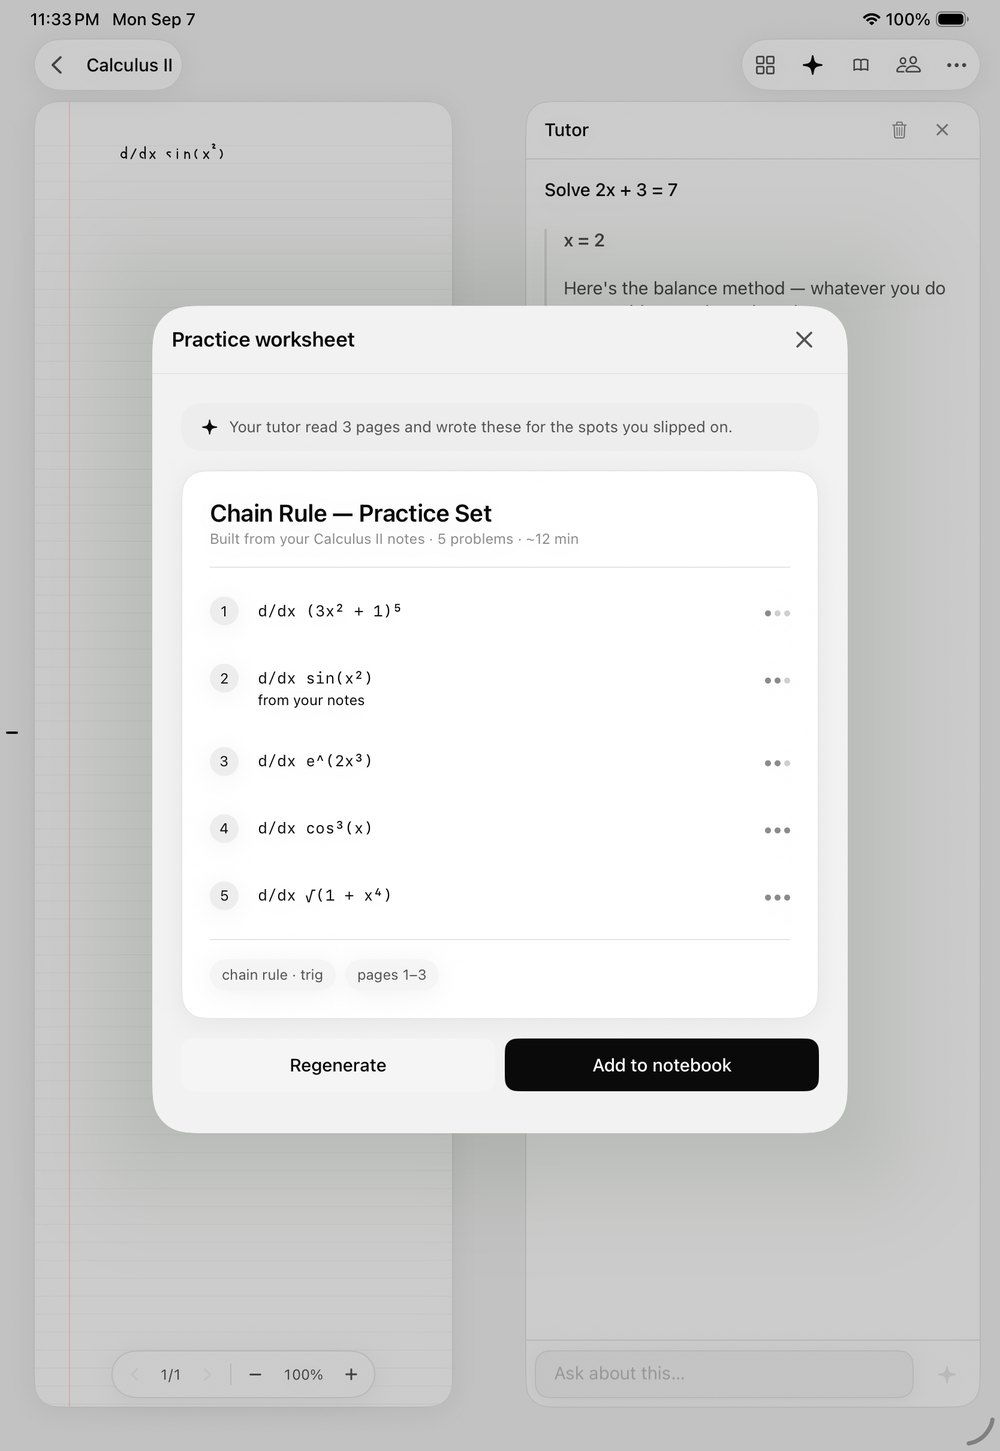
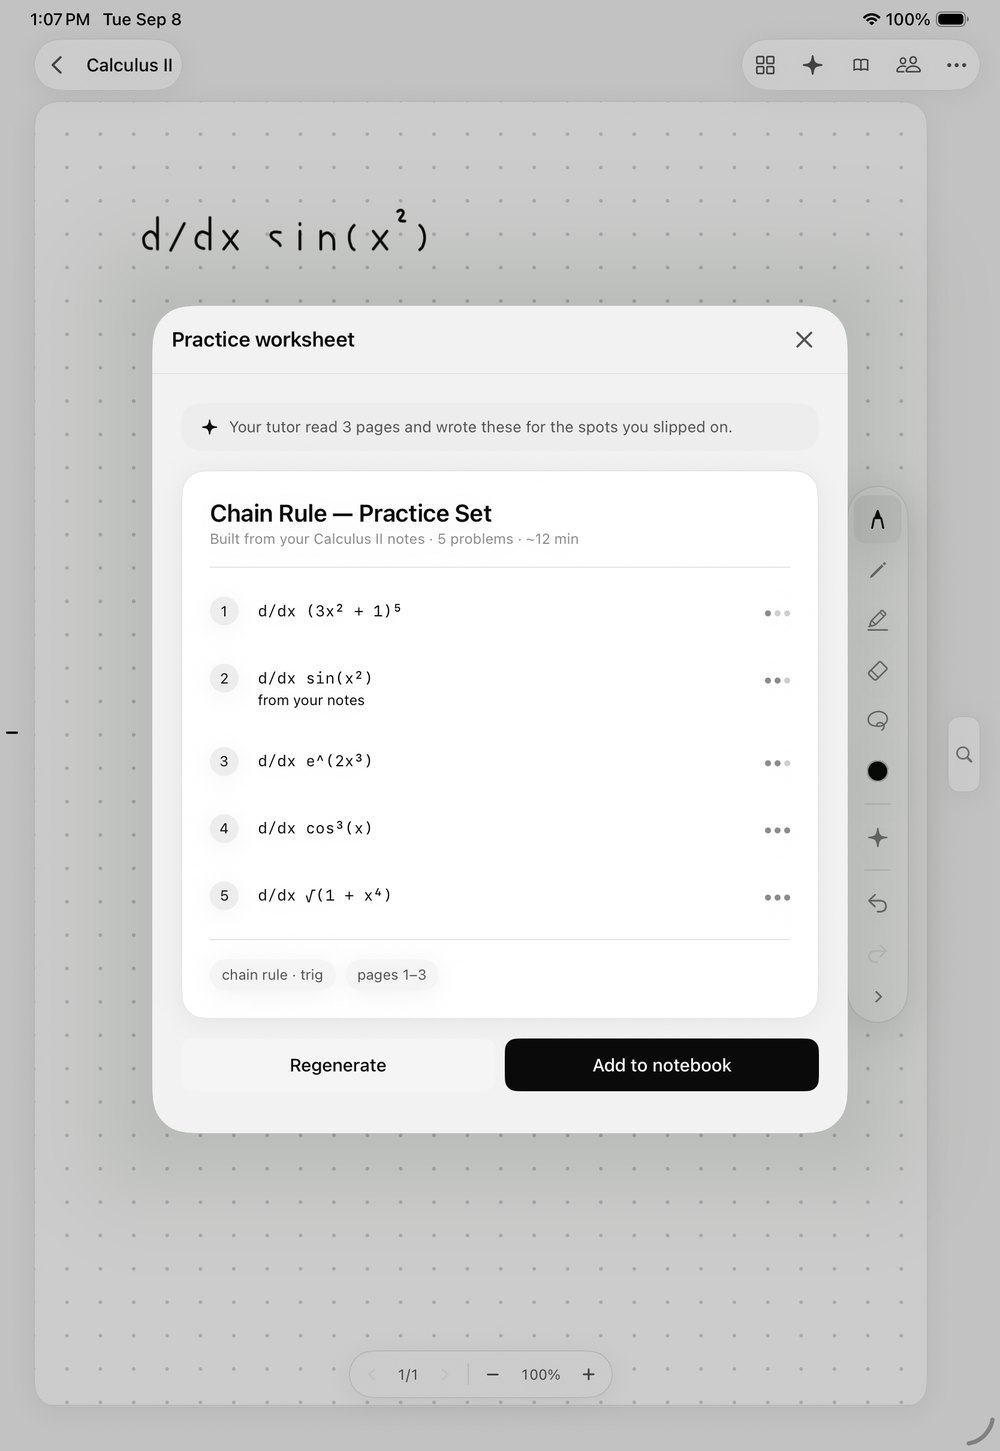
Full reshoot on dotted paper + Audio tab + richer collaboration
- All ten screenshots retaken: dotted template, real handwriting on every
  page, spiral covers, cream study mode
- Collaboration scene rebuilt Notability-style: highlighter over the
  problem, persistent name cursor-flags, the worked answer landed
- New mocked features shot and shipped: lecture recording with live
  transcript, voice tutor, present-to-audience
- Toolkit grows an Audio tab (recording + voice); Together pairs the live
  session with presenting; fixed copy min-heights keep every panel the
  same rectangle

diff --git a/index.html b/index.html
@@ -143,7 +143,7 @@
     background:#F1EDE3;border-radius:24px;overflow:hidden;
     display:flex;flex-direction:column;
   }
-  .card .cardcopy{padding:28px 28px 18px}
+  .card .cardcopy{padding:28px 28px 18px;min-height:168px}
   .card h3{font-size:clamp(20px,2.4vw,26px);font-weight:800;letter-spacing:-.5px;line-height:1.15}
   .card p{font-size:15px;color:var(--muted);margin-top:8px;max-width:520px}
   .card .cardshot{padding:0 28px 28px;margin-top:auto}
@@ -171,6 +171,7 @@
     .toolkit{padding:64px 0 8px}
     .panel.active{grid-template-columns:1fr}
     .card .cardshot img{height:430px}
+    .card .cardcopy{min-height:214px}
     .tabbar{justify-content:flex-start}
     form{flex-direction:column}
     form .btn{width:100%;text-align:center}
@@ -301,6 +302,9 @@
         <button class="tabbtn" data-tab="study" role="tab" aria-selected="false">
           <svg width="15" height="15" viewBox="0 0 16 16" fill="none" stroke="currentColor" stroke-width="1.8" aria-hidden="true"><rect x="1" y="4.5" width="11" height="10" rx="2"/><path d="M4 4.5V3a2 2 0 0 1 2-2h7a2 2 0 0 1 2 2v7a2 2 0 0 1-2 2h-1.5"/></svg>
           Study</button>
+        <button class="tabbtn" data-tab="audio" role="tab" aria-selected="false">
+          <svg width="15" height="15" viewBox="0 0 16 16" fill="currentColor" aria-hidden="true"><rect x="0" y="6" width="2" height="4" rx="1"/><rect x="3.5" y="3" width="2" height="10" rx="1"/><rect x="7" y="0.5" width="2" height="15" rx="1"/><rect x="10.5" y="3.5" width="2" height="9" rx="1"/><rect x="14" y="6" width="2" height="4" rx="1"/></svg>
+          Audio</button>
         <button class="tabbtn" data-tab="together" role="tab" aria-selected="false">
           <svg width="15" height="15" viewBox="0 0 16 16" fill="currentColor" aria-hidden="true"><circle cx="5" cy="5" r="3"/><circle cx="11.5" cy="6" r="2.3"/><path d="M0 14c0-2.8 2.2-5 5-5s5 2.2 5 5v1H0zM10.4 9.4a4.6 4.6 0 0 1 5.6 4.5v1h-4.5v-1c0-1.7-.4-3.2-1.1-4.5z"/></svg>
           Together</button>
@@ -318,7 +322,7 @@
           <div class="card">
             <div class="cardcopy">
               <h3>A tutor in the margin</h3>
-              <p>Ask about anything on your page. Glyph answers in plain language and writes the steps out like a tutor on paper — instant, on-device, even offline.</p>
+              <p>Ask about anything on your page — plain language, steps written out like a tutor on paper. Instant and on-device.</p>
             </div>
             <div class="cardshot"><img src="img/tutor.jpg" alt="The tutor solving 2x + 3 = 7 step by step beside handwritten notes" loading="lazy" /></div>
           </div>
@@ -335,7 +339,7 @@
           <div class="card">
             <div class="cardcopy">
               <h3>Your tools live beside your notes</h3>
-              <p>Desmos graphing, a scientific calculator, Math Lab, study timers, to-dos, YouTube — floating on the page where you're writing, not in five other apps.</p>
+              <p>Desmos, calculator, Math Lab, timers — floating on the page you're writing on, not in five other apps.</p>
             </div>
             <div class="cardshot"><img src="img/widgets.jpg" alt="Graphing, calculator and Math Lab widgets over a handwritten page" loading="lazy" /></div>
           </div>
@@ -358,18 +362,35 @@
           </div>
                   </div>
 
+        <div class="panel" data-panel="audio">
+          <div class="card">
+            <div class="cardcopy">
+              <h3>Just ask, out loud</h3>
+              <p>Talk to your tutor and it talks back — a voice you can interrupt, built on the same never-just-the-answer teaching.</p>
+            </div>
+            <div class="cardshot"><img src="img/voice.jpg" alt="The voice tutor answering a spoken question" loading="lazy" /></div>
+          </div>
+          <div class="card">
+            <div class="cardcopy">
+              <h3>Lectures write themselves down</h3>
+              <p>Record the lecture while you write. Glyph transcribes it live and turns it into notes beside your own.</p>
+            </div>
+            <div class="cardshot"><img src="img/record.jpg" alt="A lecture recording with a live streaming transcript" loading="lazy" /></div>
+          </div>
+        </div>
+
         <div class="panel" data-panel="together">
           <div class="card">
             <div class="cardcopy">
-              <h3>Private by default</h3>
-              <p>Your notes are never shared. One switch makes you discoverable to students on your campus, and you can flip it back any time.</p>
+              <h3>Present to the room</h3>
+              <p>Walk the room through your page live — see who's watching, take raised hands. One switch turns it on.</p>
             </div>
-            <div class="cardshot"><img src="img/privacy.jpg" alt="The Study Together privacy switch" loading="lazy" /></div>
+            <div class="cardshot"><img src="img/present.jpg" alt="Presenting a page to eight viewers with a raised hand" loading="lazy" /></div>
           </div>
           <div class="card">
             <div class="cardcopy">
               <h3>Friends on the same page. Literally.</h3>
-              <p>Match with classmates studying the same thing and work it out together — their ink shows up live, in their color, with a group chat beside the page.</p>
+              <p>Match with classmates studying the same thing — their ink shows up live, in their color, with a chat beside the page.</p>
             </div>
             <div class="cardshot"><img src="img/session.jpg" alt="A live study session with friends writing on the page" loading="lazy" /></div>
           </div>
